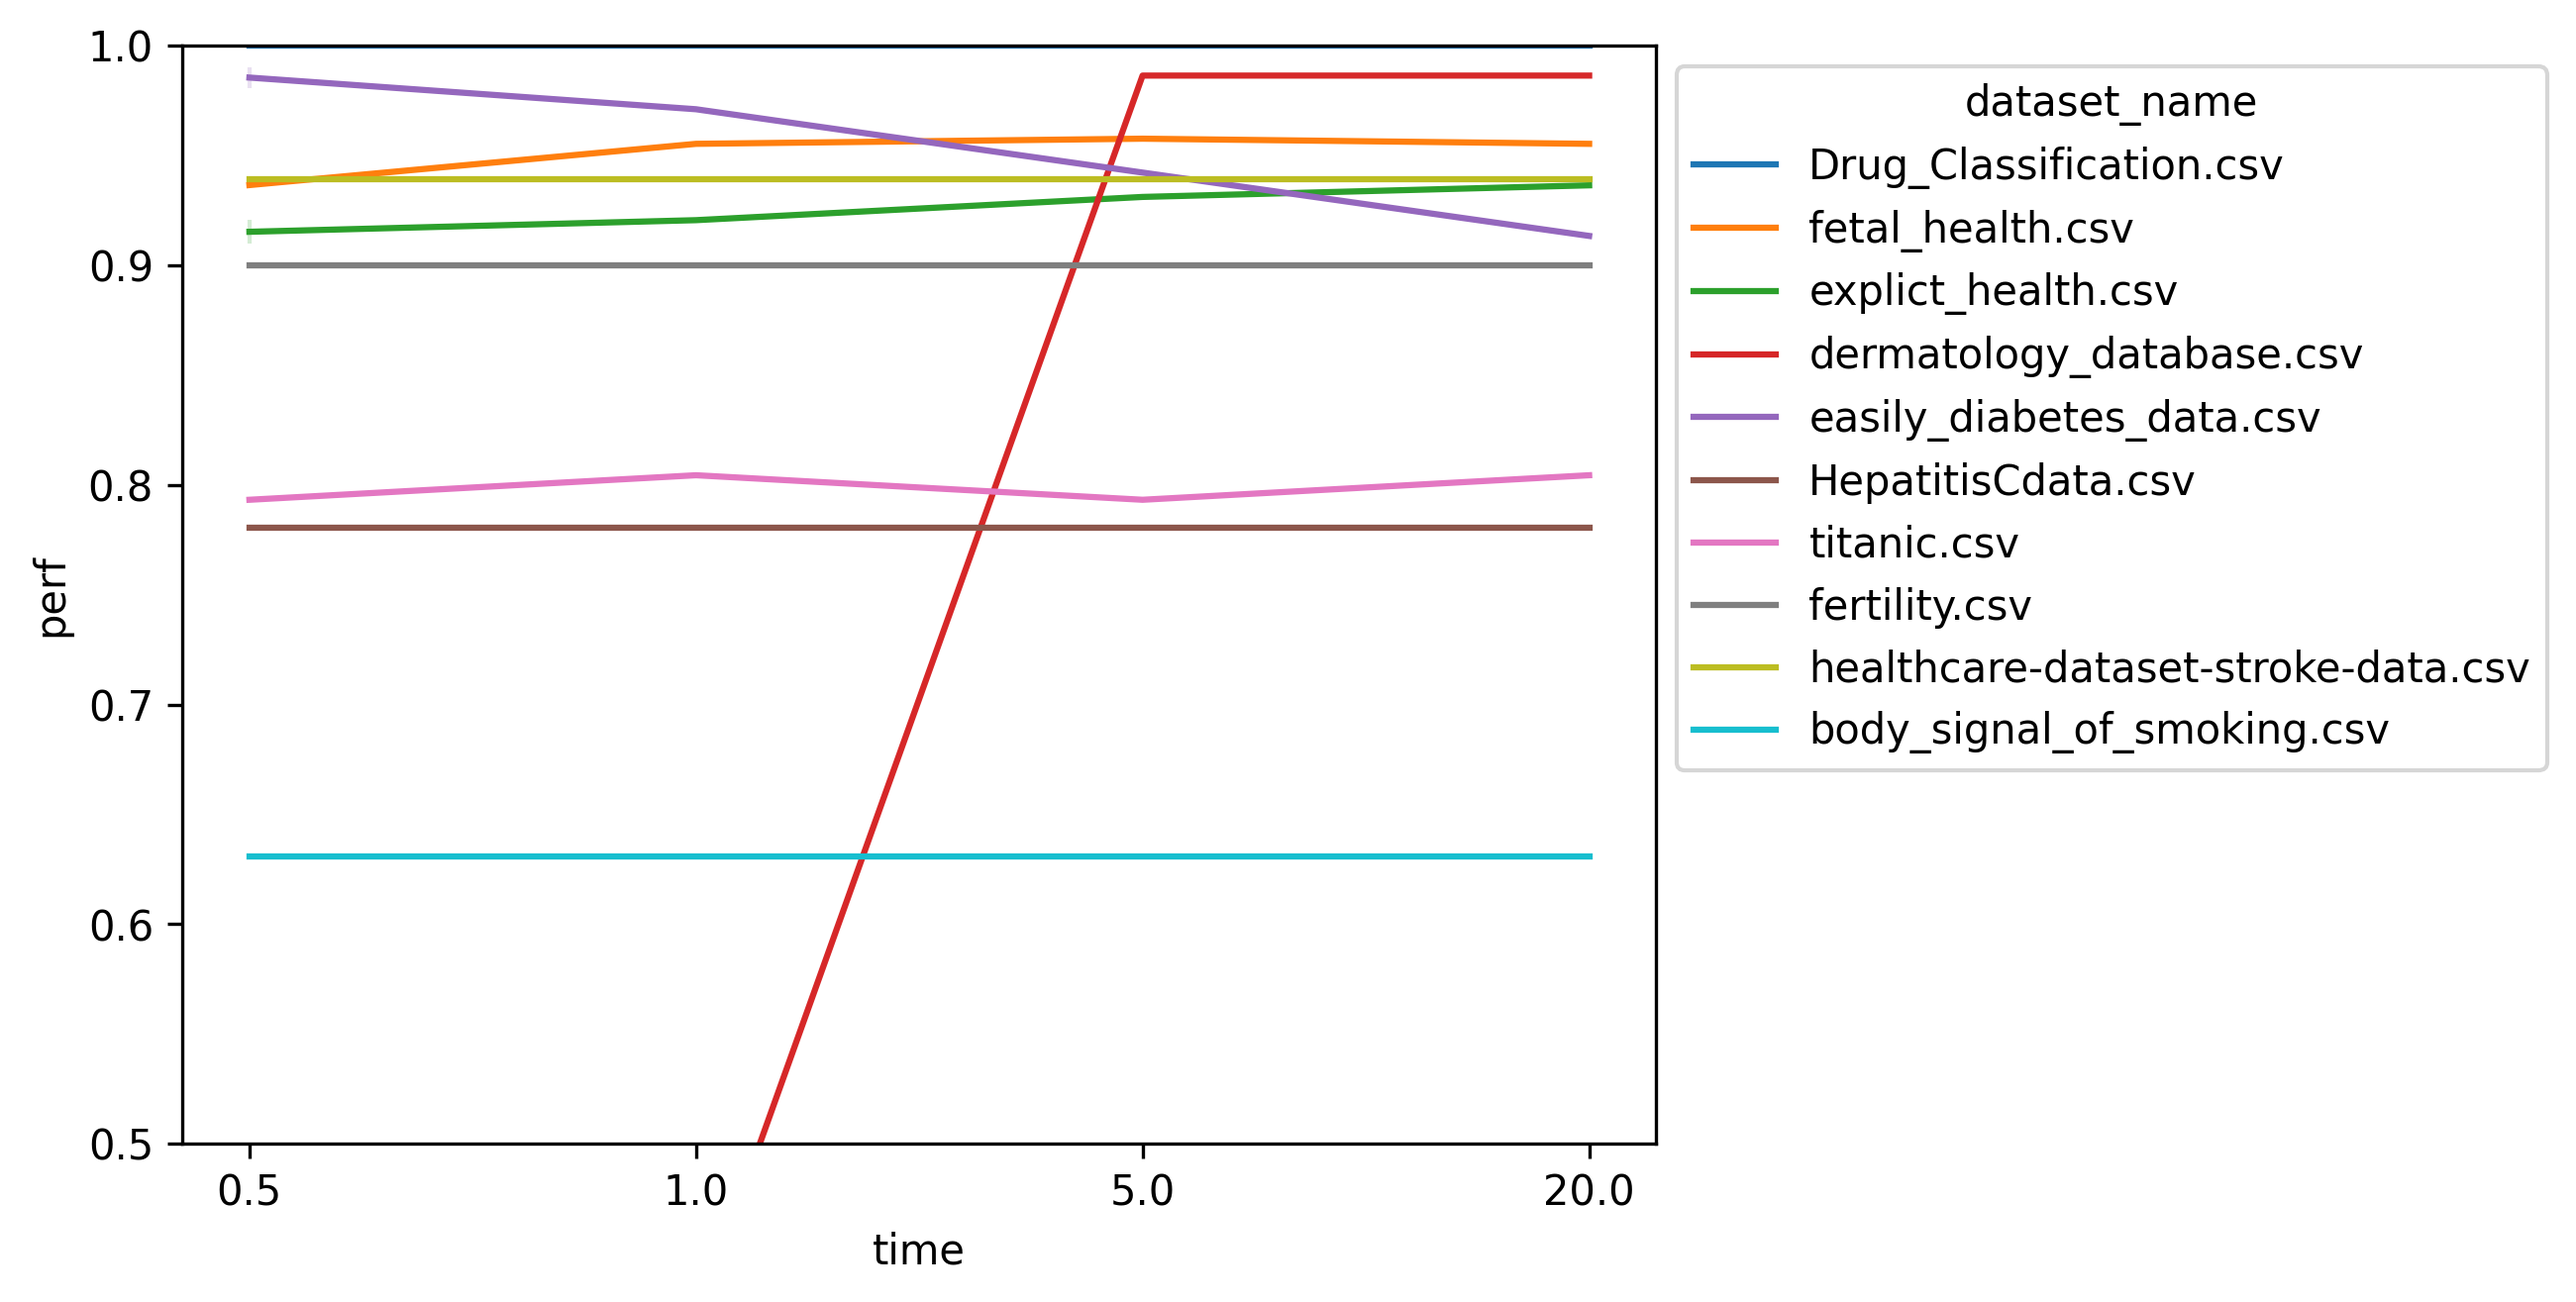
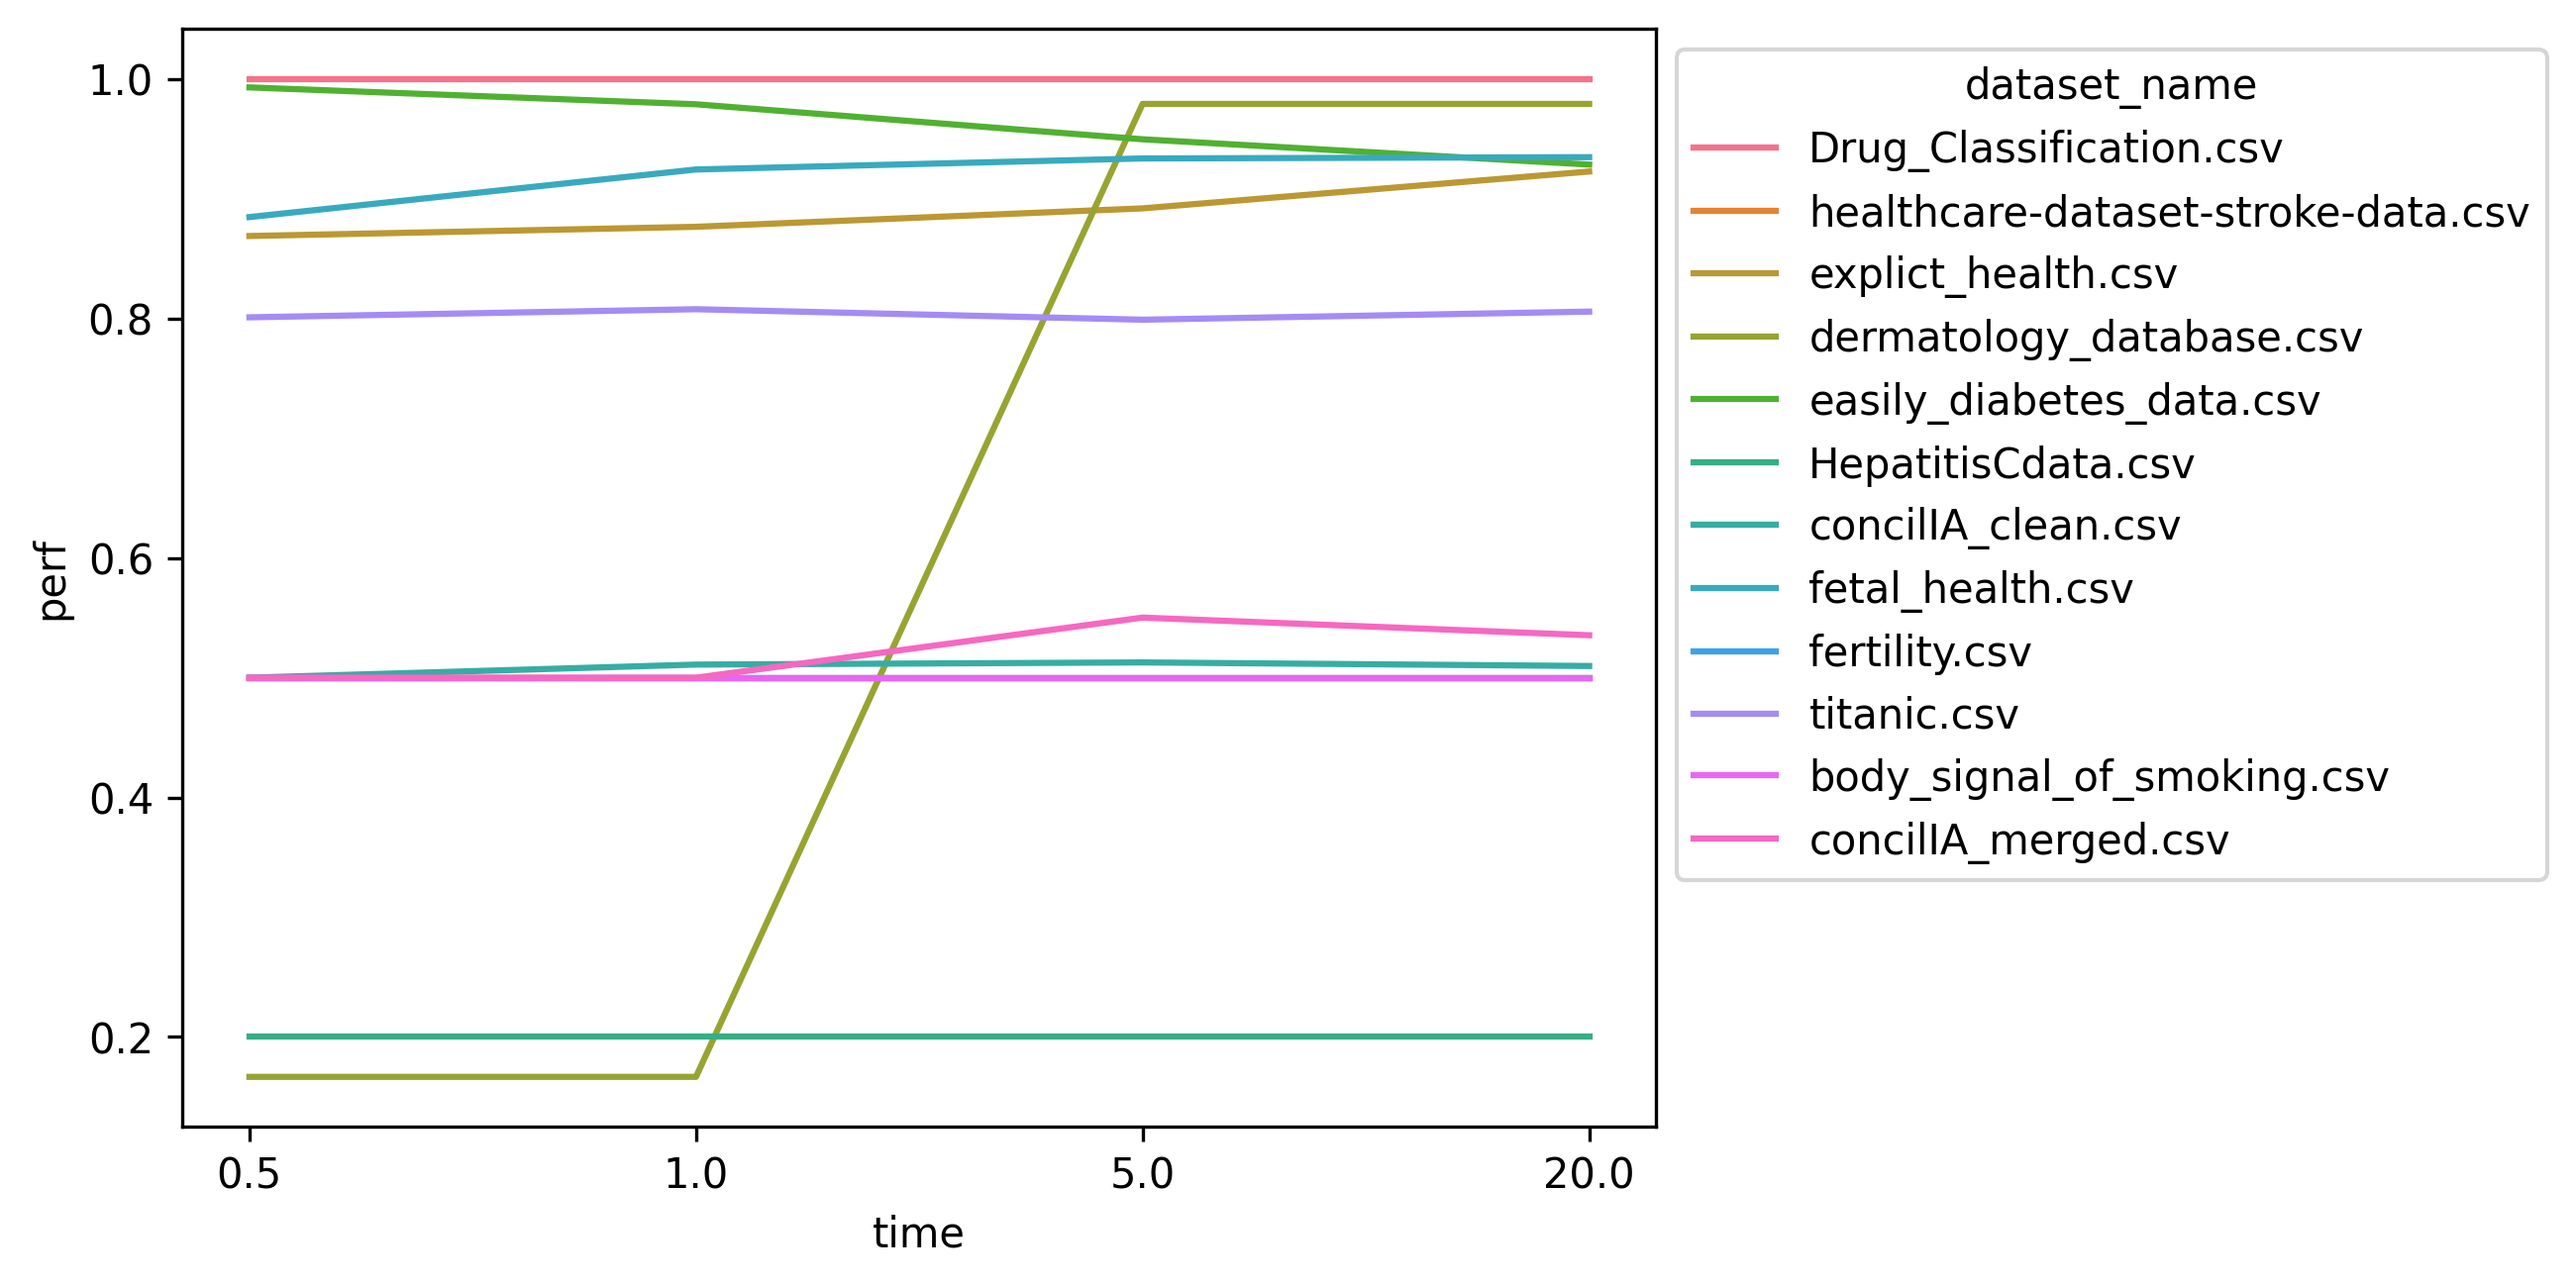
[ADD] Perf with Balenced accuracy

diff --git a/python_project/src/perf_logger/perf_tplot.py b/python_project/src/perf_logger/perf_tplot.py
@@ -11,7 +11,7 @@ sys.path.insert(0, current_path+"/../")
 from automed import *
 
 
-files = glob.glob(current_path+"/tests_data/dont_push/*.csv")
+files = glob.glob(current_path+"/tests_data/dont_push/*.csv") + glob.glob(current_path+"/tests_data/*.csv")
 
 history_path = current_path+"/tests_data/tplot_perf.log"
 results = None
@@ -22,7 +22,7 @@ if not exists(history_path):
 else:
     results = pd.read_csv(history_path)
 
-files = []
+# files = []
 for time in [60]: #[30, 60, 60*5, 60*20]:
     for file in files:
         filename = file.split('/')[-1]
@@ -56,6 +56,6 @@ for time in [60]: #[30, 60, 60*5, 60*20]:
 df_plot = results.sort_values(by=['time']).astype({'time': str})
 plot = sns.lineplot(data=df_plot, x="time", y="perf", hue="dataset_name")
 sns.move_legend(plot, "upper left", bbox_to_anchor=(1, 1))
-plot.set(ylim = (.5,1))
+# plot.set(ylim = (.5,1))
 fig = plot.get_figure()
 fig.savefig(current_path+"/../../../docs/tplot_perf_fig.png", dpi=300, bbox_inches = "tight") 

diff --git a/python_project/src/perf_logger/perf_comparator.py b/python_project/src/perf_logger/perf_comparator.py
@@ -33,7 +33,7 @@ plt.subplots_adjust(hspace = 0.8)
 for index, dataset in enumerate(datasets):
     plot = sns.lineplot(data=automed_result[automed_result['dataset_name'] == dataset], x="commit_id", y="perf", hue="dataset_name", ax=axes[index]) 
     plot.set(title=dataset)
-    plot.set(ylim = (.5,1.1))
+    # plot.set(ylim = (.5,1.1))
     plot.set_xticklabels(plot.get_xticklabels(), rotation=90)
     
     labels = ['AutoMed']
@@ -61,7 +61,7 @@ plt.subplots_adjust(hspace = 0.8)
 for index, dataset in enumerate(datasets):
     plot = sns.lineplot(data=automed_result[automed_result['dataset_name'] == dataset], x="commit_id", y="perf", hue="dataset_name", ax=axes[index]) 
     plot.set(title=dataset)
-    plot.set(ylim = (.5,1.1))
+    # plot.set(ylim = (.5,1.1))
     plot.set_xticklabels(plot.get_xticklabels(), rotation=90)
     
     labels = ['AutoMed']

diff --git a/python_project/src/perf_logger/perf_logger.py b/python_project/src/perf_logger/perf_logger.py
@@ -78,7 +78,7 @@ results.to_csv(history_path, index=False)
 df_plot = results.iloc[::-1]
 plot = sns.lineplot(data=df_plot, x="commit_id", y="perf", hue="dataset_name")
 sns.move_legend(plot, "upper left", bbox_to_anchor=(1, 1))
-plot.set(ylim = (.5,1))
+# plot.set(ylim = (.5,1))
 plot.set_xticklabels(plot.get_xticklabels(), rotation=90)
 fig = plot.get_figure()
 fig.savefig(current_path+"/../../../docs/perf_fig.png",dpi=300, bbox_inches = "tight") 

diff --git a/python_project/src/perf_logger/perf_autosklearn.py b/python_project/src/perf_logger/perf_autosklearn.py
@@ -56,6 +56,6 @@ for time in [30, 60, 60*5, 60*20]:
 df_plot = results.sort_values(by=['time']).astype({'time': str})
 plot = sns.lineplot(data=df_plot, x="time", y="perf", hue="dataset_name")
 sns.move_legend(plot, "upper left", bbox_to_anchor=(1, 1))
-plot.set(ylim = (.5,1))
+# plot.set(ylim = (.5,1))
 fig = plot.get_figure()
 fig.savefig(current_path+"/../../../docs/autosklearn_perf_fig.png", dpi=300, bbox_inches = "tight") 

diff --git a/python_project/src/automed/wrapper/wrap_genetic_gridsearch.py b/python_project/src/automed/wrapper/wrap_genetic_gridsearch.py
@@ -203,5 +203,5 @@ class WrapGeneticGridSearch(StepWrapper):
     
     # Get configurable keys (without ignored keys)    
     def __config_keys(self):
-        print("HERE !", set(self.step.current_configuration.keys()) - self.ignored_configs)
+        # print("HERE !", set(self.step.current_configuration.keys()) - self.ignored_configs)
         return set(self.step.current_configuration.keys()) - self.ignored_configs
